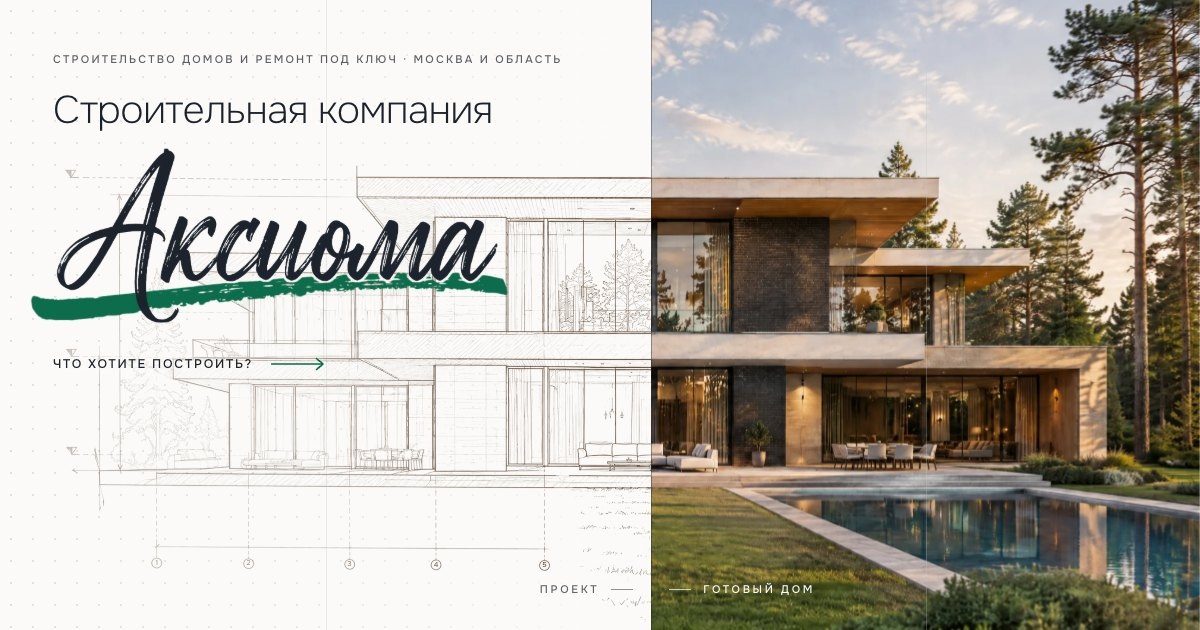
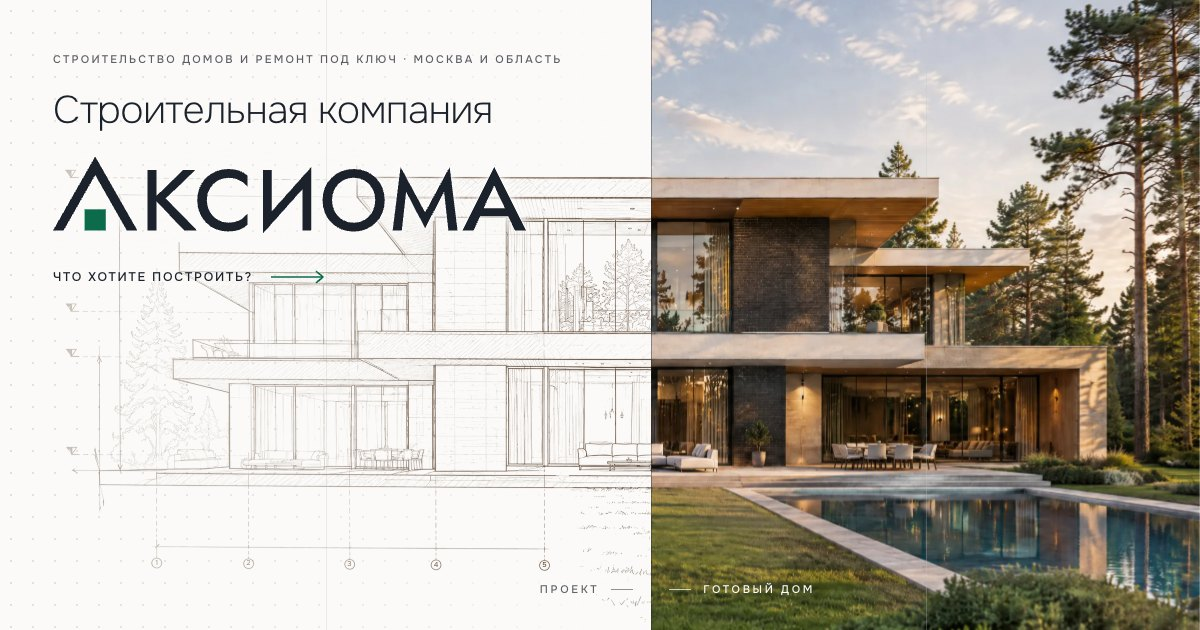
novaya: новый логотип «Фронтон» вместо рукописной «Аксиомы», без подчёркивания; новый значок

Changed region(s): [[0.0308, 0.2413, 0.4625, 0.5127], [0.0617, 0.573, 0.2158, 0.6032], [0.2467, 0.573, 0.2775, 0.6032]]

diff --git a/novaya/index.html b/novaya/index.html
@@ -10,7 +10,9 @@
 <script>document.documentElement.classList.add('js','is-loading','draw-wait','photo-wait');document.addEventListener('DOMContentLoaded',function(){if(!window.AX_OK)document.documentElement.classList.remove('js','is-loading','draw-wait','photo-wait')});</script>
 <title>Строительство домов и ремонт под ключ в Москве и МО — АКСИОМА</title>
 <meta name="description" content="Строительная компания АКСИОМА: загородные дома, ремонт квартир и домов, коммерческие помещения и инженерия в Москве и Московской области. Смета по этапам до старта работ.">
-<link rel="icon" href="assets/favicon.png">
+<link rel="icon" href="assets/logo/favicon.svg" type="image/svg+xml">
+<link rel="icon" href="assets/logo/favicon-96.png" sizes="96x96" type="image/png">
+<link rel="apple-touch-icon" href="assets/logo/apple-touch-icon.png">
 <meta name="theme-color" content="#FBFAF8">
 <meta property="og:type" content="website">
 <meta property="og:site_name" content="АКСИОМА">
@@ -84,9 +86,11 @@ img{display:block;max-width:100%}
 .menu-open .nav{transform:none}
 .nav:has(:focus-visible){transform:none}
 @supports not selector(:has(*)){ .nav:focus-within{transform:none} }
-.logo{display:flex;flex-direction:column;gap:5px;line-height:1}
-.logo b{font-weight:600;font-size:19px;letter-spacing:.24em}
-.logo small{font-size:9.5px;font-weight:400;letter-spacing:.2em;color:var(--ink-3);text-transform:uppercase}
+.logo{display:flex;align-items:center;padding:10px 0}
+/* логотип «Фронтон» (28.09, по просьбе заказчика): крыша-«А» и зелёное окно; нарисован вектором — assets/logo/ */
+.logo-mark{display:block;height:auto;color:var(--ink);overflow:visible}
+.logo-mark .logo-sq{fill:var(--accent)}
+.logo .logo-mark{width:150px}
 .links{position:absolute;left:calc(var(--c1) + 36px);display:flex;gap:clamp(16px, 1.9vw, 30px);font-size:clamp(13px, 1.1vw, 14.5px)}
 .links a{position:relative;padding:6px 0}
 .links a::after{content:"";position:absolute;left:0;right:100%;bottom:0;height:1px;background:var(--accent);transition:right .5s var(--ease)}
@@ -181,11 +185,8 @@ section{position:relative}
 .hero h1.eyebrow{font-size:max(11px, calc(var(--u) * .25))}
 .hero .display{font-weight:200;margin-top:3.4cqh}
 .hero .display .thin{display:block;font-size:var(--u);line-height:1.05;letter-spacing:-.012em;text-shadow:0 0 4px var(--paper),0 0 10px var(--paper)}
-.script{position:relative;display:block;height:calc(var(--u) * 4.67);aspect-ratio:1627/608;margin:2cqh 0 0 -2.2cqw}
-.script i{position:absolute;inset:0}
-.script .halo{background:var(--paper);-webkit-mask:url(assets/aksioma-letters.webp) 0 0/100% 100% no-repeat;mask:url(assets/aksioma-letters.webp) 0 0/100% 100% no-repeat;filter:drop-shadow(0 0 3px var(--paper)) drop-shadow(0 0 7px var(--paper))}
-.script .stroke{background:var(--accent);-webkit-mask:url(assets/aksioma-underline.webp) 0 0/100% 100% no-repeat;mask:url(assets/aksioma-underline.webp) 0 0/100% 100% no-repeat}
-.script .word{background:var(--ink);-webkit-mask:url(assets/aksioma-letters.webp) 0 0/100% 100% no-repeat;mask:url(assets/aksioma-letters.webp) 0 0/100% 100% no-repeat}
+.logo-big{position:relative;display:block;width:calc(var(--u) * 12.2);margin:3.4cqh 0 1.2cqh;will-change:transform}
+.logo-big .logo-mark{width:100%;filter:drop-shadow(0 0 3px var(--paper)) drop-shadow(0 0 8px var(--paper))}   /* бумажный ореол — читается поверх линий чертежа */
 .hero .cta{display:inline-flex;align-items:center;gap:18px;margin-top:3.2cqh;font-size:max(12.5px, calc(var(--u) * .29));font-weight:500;letter-spacing:.14em;text-transform:uppercase;padding:6px 0;text-shadow:0 0 4px var(--paper),0 0 10px var(--paper),0 0 18px var(--paper)}
 .hero .cta svg{filter:drop-shadow(0 0 4px var(--paper))}
 .hero .cta svg{color:var(--accent);width:54px;height:14px;overflow:visible;transition:transform .6s var(--ease)}
@@ -211,10 +212,9 @@ section{position:relative}
 .hero .title > *{transition:opacity 1.2s var(--ease), transform 1.4s var(--ease)}
 .is-loading .hero .title > *{opacity:0;transform:translate3d(0,40px,0)}
 .hero .title > :nth-child(2){transition-delay:.12s} .hero .title > :nth-child(3){transition-delay:.5s}
-.script .stroke{clip-path:inset(0 0 0 0);transition:clip-path 1.2s cubic-bezier(.65,0,.35,1) .75s}
-.is-loading .script .stroke{clip-path:inset(0 100% 0 0)}
-.script .word{transition:opacity 1s var(--ease) .3s}
-.is-loading .script .word{opacity:0}
+/* зелёное «окно» в крыше загорается чуть позже букв */
+.logo-big .logo-sq{transform-box:fill-box;transform-origin:50% 100%;transition:opacity .8s var(--ease) .45s, transform .9s var(--ease) .45s}
+.is-loading .logo-big .logo-sq{opacity:0;transform:scale(.3)}
 
 
 /* ───── 2. О КОМПАНИИ ───── */
@@ -430,12 +430,8 @@ section{position:relative}
 
 /* ───── подвал ───── */
 .foot{background:var(--stone);padding:clamp(80px, 12vh, 140px) var(--pad) 36px;overflow:hidden}
-.foot .big{position:relative;width:min(1180px, 88vw);aspect-ratio:1627/608;margin:0 auto}
-.foot .big i{position:absolute;inset:0}
-.foot .big .stroke{background:var(--accent);-webkit-mask:url(assets/aksioma-underline.webp) 0 0/100% 100% no-repeat;mask:url(assets/aksioma-underline.webp) 0 0/100% 100% no-repeat}
-.js .foot .big .stroke{clip-path:inset(0 100% 0 0);transition:clip-path 1.6s cubic-bezier(.65,0,.35,1) .3s}
-.js .foot .big.is-in .stroke{clip-path:inset(0 0 0 0)}
-.foot .big .word{background:var(--ink);-webkit-mask:url(assets/aksioma-letters.webp) 0 0/100% 100% no-repeat;mask:url(assets/aksioma-letters.webp) 0 0/100% 100% no-repeat}
+.foot .big{position:relative;width:min(1060px, 84vw);margin:0 auto}
+.foot .big .logo-mark{width:100%}
 .foot-cols{margin-top:clamp(60px, 9vh, 110px);display:grid;grid-template-columns:calc(var(--c1) - var(--pad)) calc(var(--c2) - var(--c1)) calc(var(--c3) - var(--c2)) 1fr;border-top:1px solid var(--rule);padding-top:36px}
 .foot-cols h4{font-size:11px;font-weight:500;letter-spacing:.2em;text-transform:uppercase;color:var(--ink-3);margin-bottom:18px}
 .foot-cols a{display:block;font-size:15px;margin-bottom:10px;width:fit-content;max-width:100%}
@@ -498,8 +494,8 @@ section{position:relative}
   :root .hero .hgrid .g2{left:0;transform:translate3d(var(--cutx, 50cqw),0,0)}
   :root .hero .seam-tag--l{right:100cqw;transform:translate3d(calc(var(--cutx, 50cqw) - 18px),0,0)}
   :root .hero .seam-tag--r{left:0;transform:translate3d(calc(var(--cutx, 50cqw) + 18px),0,0)}
-  .hero .title{top:calc(var(--nav) + 30px)}
-  .script{height:auto;width:min(calc(100cqw - 20px), 640px);margin:18px 0 0 -14px}
+  .hero .title{top:calc(var(--nav) + 70px)}
+  .logo-big{width:min(calc(100cqw - 40px), 560px);margin:30px 0 34px}
   .hero .scroll-hint{display:none}
   .build .copy{width:auto;right:var(--pad);top:calc(var(--nav) + 20px)}
   .build .frame{left:calc((100cqw - var(--W)) * .54)}
@@ -510,7 +506,8 @@ section{position:relative}
 @media (min-width: 761px) and (max-width: 1180px) and (max-aspect-ratio: 1/1){
   .gcard{width:min(80vw, 820px)}
   .g-head .h2{font-size:clamp(34px, 4.6vw, 56px)}
-  .script{width:min(calc(100cqw - 20px), max(640px, 80cqw))}
+  .hero .title{top:calc(var(--nav) + 9cqh)}
+  .logo-big{width:min(calc(100cqw - 80px), max(560px, 70cqw));margin:2.6cqh 0 5.5cqh}
 }
 /* планшет лёжа: услуги в две колонки, как на компьютере */
 @media (min-width: 900px) and (max-width: 1180px) and (min-aspect-ratio: 1/1) and (min-height: 600px){
@@ -526,7 +523,7 @@ section{position:relative}
   .phone{display:none}
   .call{display:inline-flex}
   .nav-right{gap:10px}
-  .logo b{font-size:16px}
+  .logo .logo-mark{width:122px}
   .burger{--bh:12px;width:44px;margin-right:-5px}
   .burger span{margin:0 5px}
   .eyebrow{font-size:11.5px;letter-spacing:.16em;gap:10px;align-items:flex-start;color:rgba(28,34,43,.8)}
@@ -647,8 +644,7 @@ section{position:relative}
 }
 /* короткий телефон (SE, mini, открытые панели Safari): шапка помещается целиком */
 @media (max-width: 760px){
-  .short .hero .title{top:calc(var(--nav) + 16px)}
-  .short .script{width:min(calc(100cqw - 20px), 640px, calc((var(--vh-l, 100svh) - var(--vh-cut, 0px)) * .54))}
+  .short .hero .title{top:calc(var(--nav) + 34px)}
   .short .hero .cta{margin-top:6px}
   .short .seam-tag{bottom:calc(var(--vh-cut, 0px) + 14px)}
 }
@@ -657,7 +653,7 @@ section{position:relative}
   :root{--nav:56px} .nav.is-compact{height:52px}
   .hero{min-height:0;height:var(--vh-l, 100svh)}
   .hero .title{--u:max(20px, min(3.35cqw, 6.2cqh));top:calc(var(--nav) + 4cqh)}
-  .hero .display{margin-top:2cqh} .script{margin-top:max(18px, 4cqh)}
+  .hero .display{margin-top:2cqh} .logo-big{margin:max(12px, 3cqh) 0 0;width:min(calc(var(--u) * 12.2), calc(50cqw - 60px))}
   .hero .cta{margin-top:2cqh} .scroll-hint{display:none} .seam-tag{bottom:calc(var(--vh-cut, 0px) + 14px)}
   .build .stage,.gallery .stage{height:var(--vh-l, 100svh)}
   .build .copy{top:calc(var(--nav) + 10px);width:min(400px, 46vw);padding:18px 22px}
@@ -686,24 +682,24 @@ section{position:relative}
 .hero .frame{transform-origin:54.28% 72%;animation:ax-breathe 16s ease-in-out infinite alternate}
 @media (max-width: 1180px) and (max-aspect-ratio: 1/1), (max-width: 760px){ .hero .frame{animation:none} }
 @keyframes ax-float{0%,100%{transform:translate3d(0,0,0)}50%{transform:translate3d(0,-8px,0)}}
-.hero .script{animation:ax-float 6.5s ease-in-out infinite;will-change:transform}
+.hero .logo-big{animation:ax-float 6.5s ease-in-out infinite}
 /* шапка ушла с экрана — её анимации на паузе (не греем телефон) */
-.hero.off .frame,.hero.off .script,.hero.off .scroll-hint i::after{animation-play-state:paused}
+.hero.off .frame,.hero.off .logo-big,.hero.off .scroll-hint i::after{animation-play-state:paused}
 /* очень старые браузеры без единиц контейнера (iOS 15): простая шапка без половинок */
 @supports not (width: 1cqw){
   .hero .side,.hero .hgrid,.hero .seam-tag,.build .side,.build .seam-line{display:none}
   .hero{background:var(--paper) url(assets/house-photo-1200.webp) 70% 100%/auto 58% no-repeat}
   .hero .title{top:calc(var(--nav) + 32px);--u:max(30px, min(3.35vw, 5.4vh))}
-  .script{width:min(90vw, 640px);height:auto}
+  .logo-big{width:min(calc(var(--u) * 12.2), calc(100vw - 2 * var(--pad)))}
   .build{height:auto}
   .build .stage{position:relative;height:auto;padding:calc(var(--nav) + 20px) 0 60px}
   .build .copy{position:relative;left:auto;right:auto;top:auto;width:auto;margin:0 var(--pad)}
 }
 html:not(.js) .hero-pin{height:auto} html:not(.js) .hero{position:relative} html:not(.js) .build{height:auto} html:not(.js) .build .stage{position:relative;--seam:50cqw} html:not(.js) .build .seam-line span,html:not(.js) .burger{display:none}
 @media (forced-colors: active){
-  .script .word,.foot .big .word,.frame--draw,.burger span{forced-color-adjust:none;background:CanvasText}
-  .script .halo{display:none}
-  .script .stroke,.foot .big .stroke,.brush::after{forced-color-adjust:none;background:Highlight}
+  .frame--draw,.burger span{forced-color-adjust:none;background:CanvasText}
+  .logo-mark{color:CanvasText} .logo-mark .logo-sq{fill:Highlight} .logo-big .logo-mark{filter:none}
+  .brush::after{forced-color-adjust:none;background:Highlight}
 }
 @media (prefers-reduced-motion: reduce){
   *,*::before,*::after{transition:none!important;animation:none!important}
@@ -719,7 +715,7 @@ html:not(.js) .hero-pin{height:auto} html:not(.js) .hero{position:relative} html
 <div class="glines" aria-hidden="true"><i></i><i></i><i></i></div>
 
 <header class="nav" id="nav">
-  <a class="logo" href="#top" aria-label="АКСИОМА — наверх"><b>АКСИОМА</b></a>
+  <a class="logo" href="#top" aria-label="АКСИОМА — наверх"><svg class="logo-mark " viewBox="0 -862 5473 880" aria-hidden="true" focusable="false"><path fill="currentColor" d="M0 0L488.0 -856L976 0L854.1 0L488.0 -642.2L121.9 0ZM1092.0 -700.0V0.0H1196.9392700195312V-700.0ZM1503.700927734375 -700.0 1165.851318359375 -369.31243896484375 1519.3695373535156 0.0H1665.5799224853515L1304.6240936279296 -372.0L1648.3299224853515 -700.0ZM1779.4817779541015 -350.0Q1779.4817779541015 -428.149658203125 1814.3316314697265 -486.21185302734375Q1849.1814849853515 -544.2740478515625 1905.6375091552734 -576.9363403320312Q1962.0935333251953 -609.5986328125 2028.3432891845703 -609.5986328125Q2078.3432891845705 -609.5986328125 2119.0869720458986 -596.6673889160156Q2159.8306549072267 -583.7361450195312 2192.9368255615236 -560.7174377441406Q2226.0429962158205 -537.69873046875 2249.767971801758 -508.0738525390625V-635.750244140625Q2206.1805084228517 -673.3751220703125 2154.661801147461 -692.3751220703125Q2103.1430938720705 -711.3751220703125 2026.1430938720703 -711.3751220703125Q1950.6678741455078 -711.3751220703125 1885.5864837646484 -684.9438781738281Q1820.505093383789 -658.5126342773438 1771.8175323486328 -609.9438781738281Q1723.1299713134765 -561.3751220703125 1695.854946899414 -495.10009765625Q1668.5799224853515 -428.8250732421875 1668.5799224853515 -350.0Q1668.5799224853515 -271.1749267578125 1695.854946899414 -204.89990234375Q1723.1299713134765 -138.6248779296875 1771.8175323486328 -90.05612182617188Q1820.505093383789 -41.48736572265625 1885.5864837646484 -15.056121826171875Q1950.6678741455078 11.3751220703125 2026.1430938720703 11.3751220703125Q2103.1430938720705 11.3751220703125 2154.661801147461 -7.693634033203125Q2206.1805084228517 -26.76239013671875 2249.767971801758 -64.249755859375V-191.9261474609375Q2226.0429962158205 -162.30126953125 2192.9368255615236 -139.351318359375Q2159.8306549072267 -116.4013671875 2119.0869720458986 -103.4013671875Q2078.3432891845705 -90.4013671875 2028.3432891845703 -90.4013671875Q1962.0935333251953 -90.4013671875 1905.6375091552734 -123.06365966796875Q1849.1814849853515 -155.7259521484375 1814.3316314697265 -214.21939086914062Q1779.4817779541015 -272.71282958984375 1779.4817779541015 -350.0ZM2983.6435821533205 -587.1234130859375 2988.6435821533205 -735.0 2433.767971801758 -112.8765869140625 2428.767971801758 35.0ZM2530.9569976806642 -700.0H2428.767971801758V35.0L2530.9569976806642 -87.3760986328125ZM2988.6435821533205 -735.0 2886.4545562744142 -611.248779296875V0.0H2988.6435821533205ZM3228.3078277587892 -350.0Q3228.3078277587892 -425.28717041015625 3260.676388549805 -484.0556335449219Q3293.0449493408205 -542.8240966796875 3349.6071441650392 -576.8301696777344Q3406.169338989258 -610.8362426757812 3478.4565093994142 -610.8362426757812Q3552.018704223633 -610.8362426757812 3608.0808990478517 -576.8301696777344Q3664.1430938720705 -542.8240966796875 3696.374142456055 -484.0556335449219Q3728.6051910400392 -425.28717041015625 3728.6051910400392 -350.0Q3728.6051910400392 -274.850341796875 3696.2366302490236 -216.01312255859375Q3663.868069458008 -157.1759033203125 3607.7371185302736 -123.16983032226562Q3551.6061676025392 -89.16375732421875 3478.4565093994142 -89.16375732421875Q3406.169338989258 -89.16375732421875 3349.6071441650392 -123.16983032226562Q3293.0449493408205 -157.1759033203125 3260.676388549805 -216.01312255859375Q3228.3078277587892 -274.850341796875 3228.3078277587892 -350.0ZM3118.6435821533205 -350.0Q3118.6435821533205 -272.89990234375 3145.418606567383 -206.41860961914062Q3172.1936309814455 -139.93731689453125 3220.7436798095705 -91.09353637695312Q3269.2937286376955 -42.249755859375 3335.1875579833986 -14.749755859375Q3401.0813873291017 12.750244140625 3478.4565093994142 12.750244140625Q3556.6941192626955 12.750244140625 3622.1567047119142 -14.749755859375Q3687.619290161133 -42.249755859375 3736.169338989258 -91.09353637695312Q3784.719387817383 -139.93731689453125 3811.4944122314455 -206.41860961914062Q3838.269436645508 -272.89990234375 3838.269436645508 -350.0Q3838.269436645508 -427.96258544921875 3811.42565612793 -493.8063659667969Q3784.5818756103517 -559.650146484375 3735.8943145751955 -608.2189025878906Q3687.2067535400392 -656.7876586914062 3621.812924194336 -684.0813903808594Q3556.419094848633 -711.3751220703125 3478.4565093994142 -711.3751220703125Q3401.6314361572267 -711.3751220703125 3335.8063629150392 -684.0813903808594Q3269.9812896728517 -656.7876586914062 3221.2937286376955 -608.2189025878906Q3172.6061676025392 -559.650146484375 3145.62487487793 -493.8063659667969Q3118.6435821533205 -427.96258544921875 3118.6435821533205 -350.0ZM4085.6960723876955 -447.28521728515625 4305.582852172852 -28.0 4525.469631958008 -447.28521728515625 4575.269436645508 0.0H4680.8962677001955L4589.708218383789 -735.0L4305.582852172852 -208.73907470703125L4021.4574859619142 -735.0L3930.269436645508 0.0H4035.8962677001955ZM4903.684707641602 -165.49853515625H5310.684707641602L5282.222610473633 -256.2244873046875H4932.14680480957ZM5104.984707641602 -519.998046875 5231.841751098633 -250.23663330078125 5237.162692260742 -225.148681640625 5345.12731628418 0.0H5473.073147583008L5104.984707641602 -737.0626831054688L4736.8962677001955 0.0H4864.842098999024L4975.006723022461 -231.28619384765625L4980.025137329102 -253.68658447265625Z"/><rect class="logo-sq" x="365.5" y="-245" width="245" height="245"/></svg></a>
   <nav class="links" aria-label="Разделы">
     <a href="#uslugi">Загородные дома</a> <a href="#uslugi">Ремонт</a> <a href="#uslugi">Коммерческие помещения</a> <a href="#etapy">Этапы</a> <a href="#kontakty">Контакты</a>
   </nav>
@@ -762,7 +758,7 @@ html:not(.js) .hero-pin{height:auto} html:not(.js) .hero{position:relative} html
 
   <div class="title" data-hero="title">
     <h1 class="eyebrow"><span class="eb"><span>Строительство домов и ремонт под ключ</span><span class="sep"> · </span><span>Москва и область</span></span></h1>
-    <p class="display"><span class="thin">Строительная компания</span> <span class="script"><i class="halo"></i><i class="stroke"></i><i class="word"></i><span class="sr">Аксиома</span></span></p>
+    <p class="display"><span class="thin">Строительная компания</span> <span class="logo-big"><svg class="logo-mark " viewBox="0 -862 5473 880" role="img" aria-label="АКСИОМА"><path fill="currentColor" d="M0 0L488.0 -856L976 0L854.1 0L488.0 -642.2L121.9 0ZM1092.0 -700.0V0.0H1196.9392700195312V-700.0ZM1503.700927734375 -700.0 1165.851318359375 -369.31243896484375 1519.3695373535156 0.0H1665.5799224853515L1304.6240936279296 -372.0L1648.3299224853515 -700.0ZM1779.4817779541015 -350.0Q1779.4817779541015 -428.149658203125 1814.3316314697265 -486.21185302734375Q1849.1814849853515 -544.2740478515625 1905.6375091552734 -576.9363403320312Q1962.0935333251953 -609.5986328125 2028.3432891845703 -609.5986328125Q2078.3432891845705 -609.5986328125 2119.0869720458986 -596.6673889160156Q2159.8306549072267 -583.7361450195312 2192.9368255615236 -560.7174377441406Q2226.0429962158205 -537.69873046875 2249.767971801758 -508.0738525390625V-635.750244140625Q2206.1805084228517 -673.3751220703125 2154.661801147461 -692.3751220703125Q2103.1430938720705 -711.3751220703125 2026.1430938720703 -711.3751220703125Q1950.6678741455078 -711.3751220703125 1885.5864837646484 -684.9438781738281Q1820.505093383789 -658.5126342773438 1771.8175323486328 -609.9438781738281Q1723.1299713134765 -561.3751220703125 1695.854946899414 -495.10009765625Q1668.5799224853515 -428.8250732421875 1668.5799224853515 -350.0Q1668.5799224853515 -271.1749267578125 1695.854946899414 -204.89990234375Q1723.1299713134765 -138.6248779296875 1771.8175323486328 -90.05612182617188Q1820.505093383789 -41.48736572265625 1885.5864837646484 -15.056121826171875Q1950.6678741455078 11.3751220703125 2026.1430938720703 11.3751220703125Q2103.1430938720705 11.3751220703125 2154.661801147461 -7.693634033203125Q2206.1805084228517 -26.76239013671875 2249.767971801758 -64.249755859375V-191.9261474609375Q2226.0429962158205 -162.30126953125 2192.9368255615236 -139.351318359375Q2159.8306549072267 -116.4013671875 2119.0869720458986 -103.4013671875Q2078.3432891845705 -90.4013671875 2028.3432891845703 -90.4013671875Q1962.0935333251953 -90.4013671875 1905.6375091552734 -123.06365966796875Q1849.1814849853515 -155.7259521484375 1814.3316314697265 -214.21939086914062Q1779.4817779541015 -272.71282958984375 1779.4817779541015 -350.0ZM2983.6435821533205 -587.1234130859375 2988.6435821533205 -735.0 2433.767971801758 -112.8765869140625 2428.767971801758 35.0ZM2530.9569976806642 -700.0H2428.767971801758V35.0L2530.9569976806642 -87.3760986328125ZM2988.6435821533205 -735.0 2886.4545562744142 -611.248779296875V0.0H2988.6435821533205ZM3228.3078277587892 -350.0Q3228.3078277587892 -425.28717041015625 3260.676388549805 -484.0556335449219Q3293.0449493408205 -542.8240966796875 3349.6071441650392 -576.8301696777344Q3406.169338989258 -610.8362426757812 3478.4565093994142 -610.8362426757812Q3552.018704223633 -610.8362426757812 3608.0808990478517 -576.8301696777344Q3664.1430938720705 -542.8240966796875 3696.374142456055 -484.0556335449219Q3728.6051910400392 -425.28717041015625 3728.6051910400392 -350.0Q3728.6051910400392 -274.850341796875 3696.2366302490236 -216.01312255859375Q3663.868069458008 -157.1759033203125 3607.7371185302736 -123.16983032226562Q3551.6061676025392 -89.16375732421875 3478.4565093994142 -89.16375732421875Q3406.169338989258 -89.16375732421875 3349.6071441650392 -123.16983032226562Q3293.0449493408205 -157.1759033203125 3260.676388549805 -216.01312255859375Q3228.3078277587892 -274.850341796875 3228.3078277587892 -350.0ZM3118.6435821533205 -350.0Q3118.6435821533205 -272.89990234375 3145.418606567383 -206.41860961914062Q3172.1936309814455 -139.93731689453125 3220.7436798095705 -91.09353637695312Q3269.2937286376955 -42.249755859375 3335.1875579833986 -14.749755859375Q3401.0813873291017 12.750244140625 3478.4565093994142 12.750244140625Q3556.6941192626955 12.750244140625 3622.1567047119142 -14.749755859375Q3687.619290161133 -42.249755859375 3736.169338989258 -91.09353637695312Q3784.719387817383 -139.93731689453125 3811.4944122314455 -206.41860961914062Q3838.269436645508 -272.89990234375 3838.269436645508 -350.0Q3838.269436645508 -427.96258544921875 3811.42565612793 -493.8063659667969Q3784.5818756103517 -559.650146484375 3735.8943145751955 -608.2189025878906Q3687.2067535400392 -656.7876586914062 3621.812924194336 -684.0813903808594Q3556.419094848633 -711.3751220703125 3478.4565093994142 -711.3751220703125Q3401.6314361572267 -711.3751220703125 3335.8063629150392 -684.0813903808594Q3269.9812896728517 -656.7876586914062 3221.2937286376955 -608.2189025878906Q3172.6061676025392 -559.650146484375 3145.62487487793 -493.8063659667969Q3118.6435821533205 -427.96258544921875 3118.6435821533205 -350.0ZM4085.6960723876955 -447.28521728515625 4305.582852172852 -28.0 4525.469631958008 -447.28521728515625 4575.269436645508 0.0H4680.8962677001955L4589.708218383789 -735.0L4305.582852172852 -208.73907470703125L4021.4574859619142 -735.0L3930.269436645508 0.0H4035.8962677001955ZM4903.684707641602 -165.49853515625H5310.684707641602L5282.222610473633 -256.2244873046875H4932.14680480957ZM5104.984707641602 -519.998046875 5231.841751098633 -250.23663330078125 5237.162692260742 -225.148681640625 5345.12731628418 0.0H5473.073147583008L5104.984707641602 -737.0626831054688L4736.8962677001955 0.0H4864.842098999024L4975.006723022461 -231.28619384765625L4980.025137329102 -253.68658447265625Z"/><rect class="logo-sq" x="365.5" y="-245" width="245" height="245"/></svg></span></p>
     <a class="cta" href="#raschet">Что хотите построить?
       <svg viewBox="0 0 54 14" aria-hidden="true"><path d="M0 7H52M45 1l7 6-7 6" fill="none" stroke="currentColor" stroke-width="1.6"/></svg></a>
   </div>
@@ -1018,7 +1014,7 @@ html:not(.js) .hero-pin{height:auto} html:not(.js) .hero{position:relative} html
 </main>
 
 <footer class="foot">
-  <div class="big" data-reveal><i class="stroke"></i><i class="word"></i><span class="sr">Аксиома</span></div>
+  <div class="big" data-reveal><svg class="logo-mark " viewBox="0 -862 5473 880" role="img" aria-label="АКСИОМА"><path fill="currentColor" d="M0 0L488.0 -856L976 0L854.1 0L488.0 -642.2L121.9 0ZM1092.0 -700.0V0.0H1196.9392700195312V-700.0ZM1503.700927734375 -700.0 1165.851318359375 -369.31243896484375 1519.3695373535156 0.0H1665.5799224853515L1304.6240936279296 -372.0L1648.3299224853515 -700.0ZM1779.4817779541015 -350.0Q1779.4817779541015 -428.149658203125 1814.3316314697265 -486.21185302734375Q1849.1814849853515 -544.2740478515625 1905.6375091552734 -576.9363403320312Q1962.0935333251953 -609.5986328125 2028.3432891845703 -609.5986328125Q2078.3432891845705 -609.5986328125 2119.0869720458986 -596.6673889160156Q2159.8306549072267 -583.7361450195312 2192.9368255615236 -560.7174377441406Q2226.0429962158205 -537.69873046875 2249.767971801758 -508.0738525390625V-635.750244140625Q2206.1805084228517 -673.3751220703125 2154.661801147461 -692.3751220703125Q2103.1430938720705 -711.3751220703125 2026.1430938720703 -711.3751220703125Q1950.6678741455078 -711.3751220703125 1885.5864837646484 -684.9438781738281Q1820.505093383789 -658.5126342773438 1771.8175323486328 -609.9438781738281Q1723.1299713134765 -561.3751220703125 1695.854946899414 -495.10009765625Q1668.5799224853515 -428.8250732421875 1668.5799224853515 -350.0Q1668.5799224853515 -271.1749267578125 1695.854946899414 -204.89990234375Q1723.1299713134765 -138.6248779296875 1771.8175323486328 -90.05612182617188Q1820.505093383789 -41.48736572265625 1885.5864837646484 -15.056121826171875Q1950.6678741455078 11.3751220703125 2026.1430938720703 11.3751220703125Q2103.1430938720705 11.3751220703125 2154.661801147461 -7.693634033203125Q2206.1805084228517 -26.76239013671875 2249.767971801758 -64.249755859375V-191.9261474609375Q2226.0429962158205 -162.30126953125 2192.9368255615236 -139.351318359375Q2159.8306549072267 -116.4013671875 2119.0869720458986 -103.4013671875Q2078.3432891845705 -90.4013671875 2028.3432891845703 -90.4013671875Q1962.0935333251953 -90.4013671875 1905.6375091552734 -123.06365966796875Q1849.1814849853515 -155.7259521484375 1814.3316314697265 -214.21939086914062Q1779.4817779541015 -272.71282958984375 1779.4817779541015 -350.0ZM2983.6435821533205 -587.1234130859375 2988.6435821533205 -735.0 2433.767971801758 -112.8765869140625 2428.767971801758 35.0ZM2530.9569976806642 -700.0H2428.767971801758V35.0L2530.9569976806642 -87.3760986328125ZM2988.6435821533205 -735.0 2886.4545562744142 -611.248779296875V0.0H2988.6435821533205ZM3228.3078277587892 -350.0Q3228.3078277587892 -425.28717041015625 3260.676388549805 -484.0556335449219Q3293.0449493408205 -542.8240966796875 3349.6071441650392 -576.8301696777344Q3406.169338989258 -610.8362426757812 3478.4565093994142 -610.8362426757812Q3552.018704223633 -610.8362426757812 3608.0808990478517 -576.8301696777344Q3664.1430938720705 -542.8240966796875 3696.374142456055 -484.0556335449219Q3728.6051910400392 -425.28717041015625 3728.6051910400392 -350.0Q3728.6051910400392 -274.850341796875 3696.2366302490236 -216.01312255859375Q3663.868069458008 -157.1759033203125 3607.7371185302736 -123.16983032226562Q3551.6061676025392 -89.16375732421875 3478.4565093994142 -89.16375732421875Q3406.169338989258 -89.16375732421875 3349.6071441650392 -123.16983032226562Q3293.0449493408205 -157.1759033203125 3260.676388549805 -216.01312255859375Q3228.3078277587892 -274.850341796875 3228.3078277587892 -350.0ZM3118.6435821533205 -350.0Q3118.6435821533205 -272.89990234375 3145.418606567383 -206.41860961914062Q3172.1936309814455 -139.93731689453125 3220.7436798095705 -91.09353637695312Q3269.2937286376955 -42.249755859375 3335.1875579833986 -14.749755859375Q3401.0813873291017 12.750244140625 3478.4565093994142 12.750244140625Q3556.6941192626955 12.750244140625 3622.1567047119142 -14.749755859375Q3687.619290161133 -42.249755859375 3736.169338989258 -91.09353637695312Q3784.719387817383 -139.93731689453125 3811.4944122314455 -206.41860961914062Q3838.269436645508 -272.89990234375 3838.269436645508 -350.0Q3838.269436645508 -427.96258544921875 3811.42565612793 -493.8063659667969Q3784.5818756103517 -559.650146484375 3735.8943145751955 -608.2189025878906Q3687.2067535400392 -656.7876586914062 3621.812924194336 -684.0813903808594Q3556.419094848633 -711.3751220703125 3478.4565093994142 -711.3751220703125Q3401.6314361572267 -711.3751220703125 3335.8063629150392 -684.0813903808594Q3269.9812896728517 -656.7876586914062 3221.2937286376955 -608.2189025878906Q3172.6061676025392 -559.650146484375 3145.62487487793 -493.8063659667969Q3118.6435821533205 -427.96258544921875 3118.6435821533205 -350.0ZM4085.6960723876955 -447.28521728515625 4305.582852172852 -28.0 4525.469631958008 -447.28521728515625 4575.269436645508 0.0H4680.8962677001955L4589.708218383789 -735.0L4305.582852172852 -208.73907470703125L4021.4574859619142 -735.0L3930.269436645508 0.0H4035.8962677001955ZM4903.684707641602 -165.49853515625H5310.684707641602L5282.222610473633 -256.2244873046875H4932.14680480957ZM5104.984707641602 -519.998046875 5231.841751098633 -250.23663330078125 5237.162692260742 -225.148681640625 5345.12731628418 0.0H5473.073147583008L5104.984707641602 -737.0626831054688L4736.8962677001955 0.0H4864.842098999024L4975.006723022461 -231.28619384765625L4980.025137329102 -253.68658447265625Z"/><rect class="logo-sq" x="365.5" y="-245" width="245" height="245"/></svg></div>
   <div class="foot-cols">
     <div><h4>Компания</h4><a href="#o-kompanii">О компании</a> <a href="#etapy">Этапы работ</a> <a href="#kachestvo">Почему нам доверяют</a></div>
     <div><h4>Услуги</h4><a href="#uslugi">Загородные дома</a> <a href="#uslugi">Ремонт квартир и домов</a> <a href="#uslugi">Коммерческие помещения</a> <a href="#uslugi">Инженерия</a></div>

diff --git a/novaya/politika.html b/novaya/politika.html
@@ -7,21 +7,22 @@
 <meta name="referrer" content="strict-origin-when-cross-origin">
 <meta name="robots" content="noindex, nofollow">
 <title>Политика конфиденциальности — АКСИОМА</title>
-<link rel="icon" href="assets/favicon.png">
+<link rel="icon" href="assets/logo/favicon.svg" type="image/svg+xml">
+<link rel="icon" href="assets/logo/favicon-96.png" sizes="96x96" type="image/png">
 <style>
 @font-face{font-family:'Onest';font-style:normal;font-weight:200 600;font-display:swap;src:url(assets/fonts/onest-cyr.woff2) format('woff2');unicode-range:U+0301,U+0400-045F,U+0490-0491,U+04B0-04B1,U+2116}
 @font-face{font-family:'Onest';font-style:normal;font-weight:200 600;font-display:swap;src:url(assets/fonts/onest-lat.woff2) format('woff2');unicode-range:U+0000-00FF,U+0131,U+0152-0153,U+02BB-02BC,U+02C6,U+02DA,U+02DC,U+0304,U+0308,U+0329,U+2000-206F,U+20AC,U+2122,U+2191,U+2193,U+2212,U+2215,U+FEFF,U+FFFD}
 *{box-sizing:border-box;margin:0;padding:0}
 body{background:#FBFAF8;color:#1C222B;font-family:'Onest',system-ui,sans-serif;-webkit-font-smoothing:antialiased;padding:clamp(28px, 6vw, 80px) clamp(20px, 4.4vw, 64px);max-width:860px}
 a{color:inherit}
-.logo{font-weight:600;font-size:17px;letter-spacing:.24em;text-decoration:none}
+.logo{display:inline-block}.logo img{display:block;width:150px;height:auto}
 h1{font-weight:200;font-size:clamp(32px, 4.4vw, 56px);line-height:1.08;letter-spacing:-.02em;margin:56px 0 28px}
 p{font-size:17px;line-height:1.65;color:rgba(28,34,43,.8);margin-top:16px;max-width:640px}
 .back{display:inline-block;margin-top:40px;font-size:13px;font-weight:500;letter-spacing:.14em;text-transform:uppercase;text-decoration:none;border-bottom:1px solid #0B6B4B;padding-bottom:4px}
 </style>
 </head>
 <body>
-<a class="logo" href="./">АКСИОМА</a>
+<a class="logo" href="./"><picture><source srcset="assets/logo/logo-aksioma-white.svg" media="(forced-colors: active) and (prefers-color-scheme: dark)"><img src="assets/logo/logo-aksioma.svg" alt="АКСИОМА" width="150"></picture></a>
 <h1>Политика обработки персональных данных</h1>
 <p>Текст политики будет опубликован здесь, когда компания передаст реквизиты: полное название юрлица, ИНН и адрес.</p>
 <p>Сейчас это макет сайта. Заявки с него никуда не отправляются, данные из формы не сохраняются и не передаются.</p>

diff --git a/novaya/sait.js b/novaya/sait.js
@@ -353,18 +353,16 @@
   function pickType(id){ const o = qType.querySelector(`[data-id="${id}"]`); if (!o) return; o.click(); q = 0; showQ(false); }
 
   /* ── старт шапки: ждём только то, что нужно шапке (раньше ждали все картинки страницы) ──
-     надпись — когда готовы шрифт и «Аксиома»; чертёж — когда загружен; дом «достраивается», когда фото раскодировано */
+     надпись с логотипом — когда готов шрифт; чертёж — когда загружен; дом «достраивается», когда фото раскодировано */
   const urlOf = (el, ...props) => { const cs = getComputedStyle(el); for (const p of props){ const m = (cs[p] || '').match(/url\(["']?([^"')]+)["']?\)/); if (m) return m[1]; } return null; };
   const loaded = urls => new Promise(res => {
     const want = urls.filter(Boolean).map(u => new URL(u, location.href).href);
     (function check(){ if (want.every(u => performance.getEntriesByName(u).length)) res(); else setTimeout(check, 50); })();
   });
   const capped = (p, ms) => Promise.race([p, new Promise(r => setTimeout(r, ms))]);
-  const word = $('#hero .script .word'), stroke = $('#hero .script .stroke');
-  const uWord = urlOf(word, 'webkitMaskImage', 'maskImage'), uStroke = urlOf(stroke, 'webkitMaskImage', 'maskImage');
   const uDraw = urlOf($('#hero .frame--draw'), 'webkitMaskImage', 'maskImage', 'backgroundImage'), uPhoto = urlOf($('#hero .frame--photo'), 'backgroundImage');
   const fontsP = document.fonts ? Promise.all([document.fonts.load('200 30px Onest', 'Строительная компания'), document.fonts.ready]).catch(() => {}) : Promise.resolve();
-  capped(Promise.all([fontsP, loaded([uWord, uStroke])]), 1600).then(() => twoFrames(() => root.classList.remove('is-loading')));
+  capped(fontsP, 1600).then(() => twoFrames(() => root.classList.remove('is-loading')));   // логотип — вектор в самой странице, ждать нечего, кроме шрифта
   capped(loaded([uDraw]), 2600).then(() => root.classList.remove('draw-wait'));
   const photoP = uPhoto ? loaded([uPhoto]).then(() => { const i = new Image(); i.src = uPhoto; return i.decode().catch(() => {}); }) : Promise.resolve();
   capped(photoP, 7000).then(() => twoFrames(() => {
